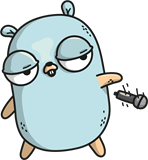
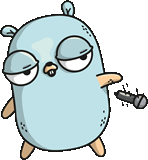
perf(static): optimize gopher-flash.webp to 66x56 and set 1y immutable Cache-Control on /static/

diff --git a/internal/web/web.go b/internal/web/web.go
@@ -833,7 +833,7 @@ func (s *Server) RegisterRoutes(mux *http.ServeMux) {
 	// Serve static files dengan neutered file system (mencegah directory listing) dan header cache browser
 	staticFileServer := http.StripPrefix("/static/", http.FileServer(neuteredFileSystem{fs: http.Dir(filepath.Join("web", "static"))}))
 	staticHandler := http.HandlerFunc(func(w http.ResponseWriter, r *http.Request) {
-		w.Header().Set("Cache-Control", "public, max-age=86400")
+		w.Header().Set("Cache-Control", "public, max-age=31536000, immutable")
 		staticFileServer.ServeHTTP(w, r)
 	})
 	handle("/static/", s.RateLimitStaticMiddleware(staticHandler))
